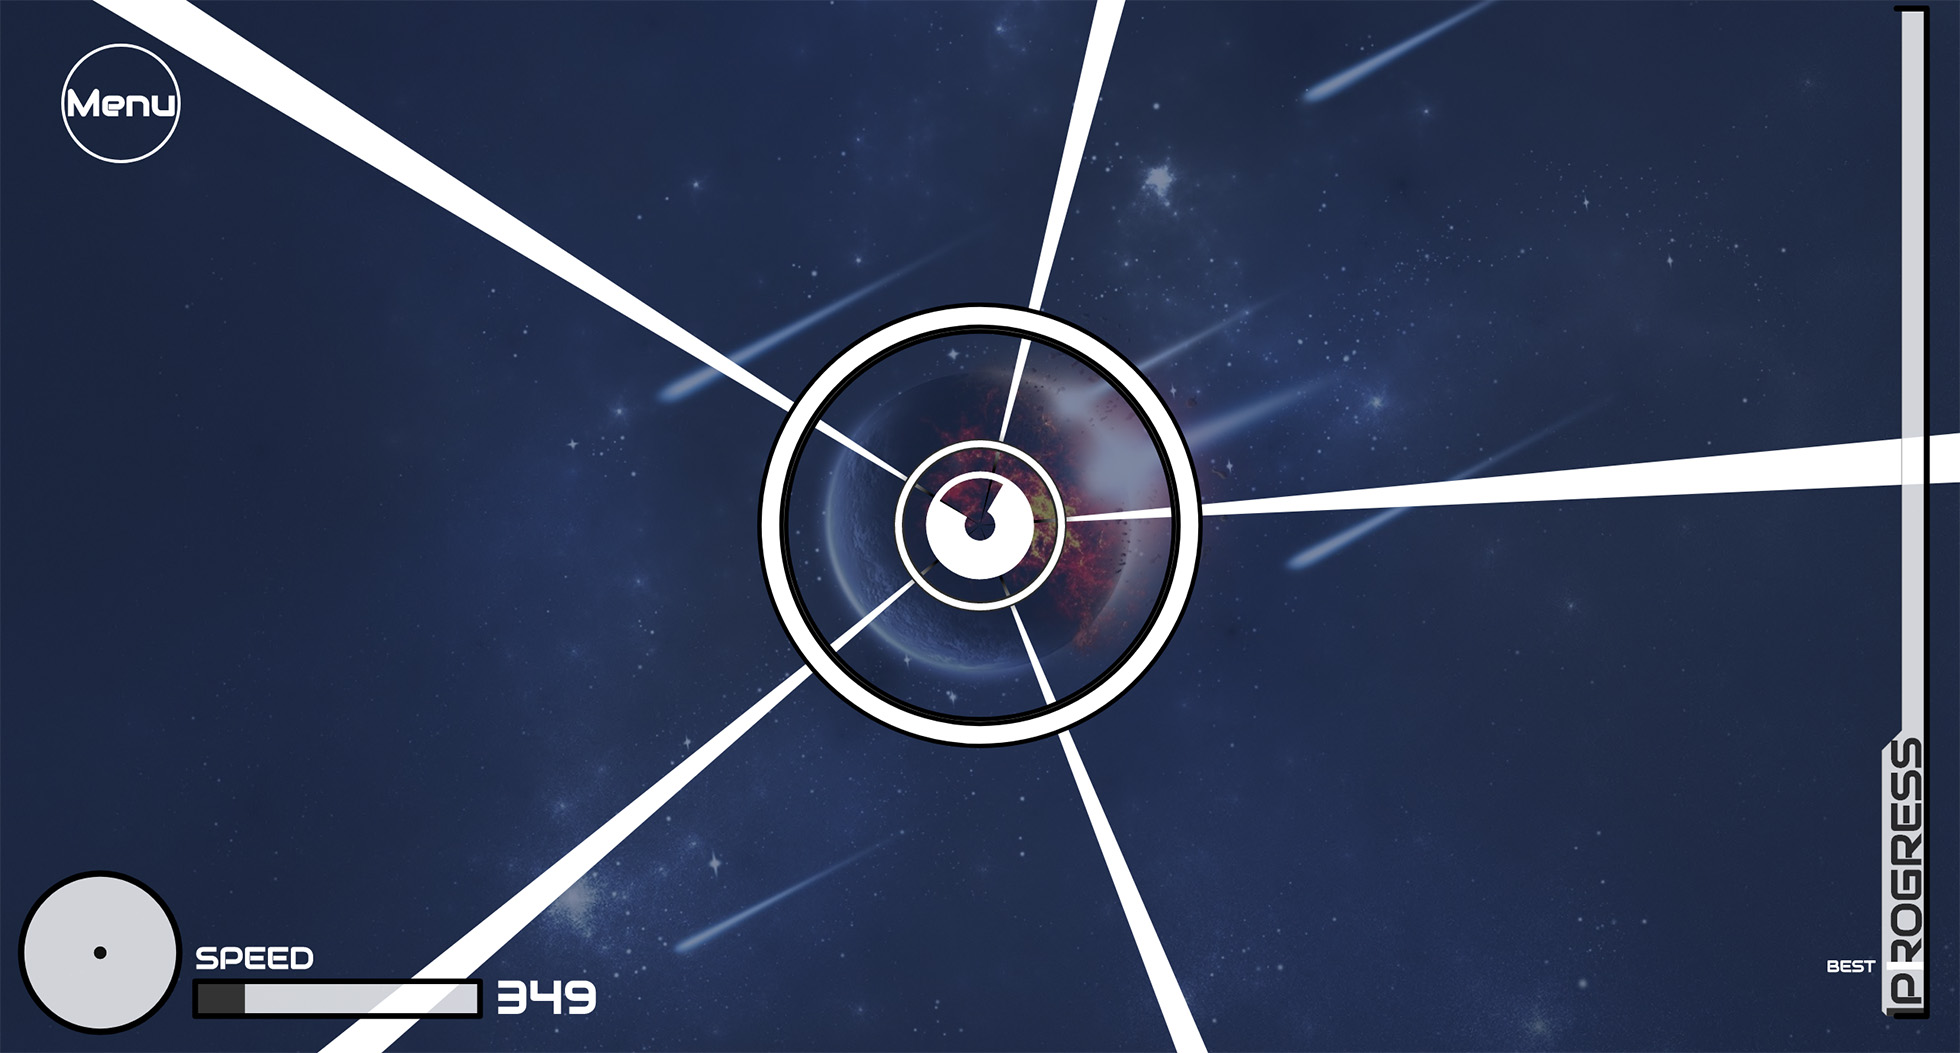
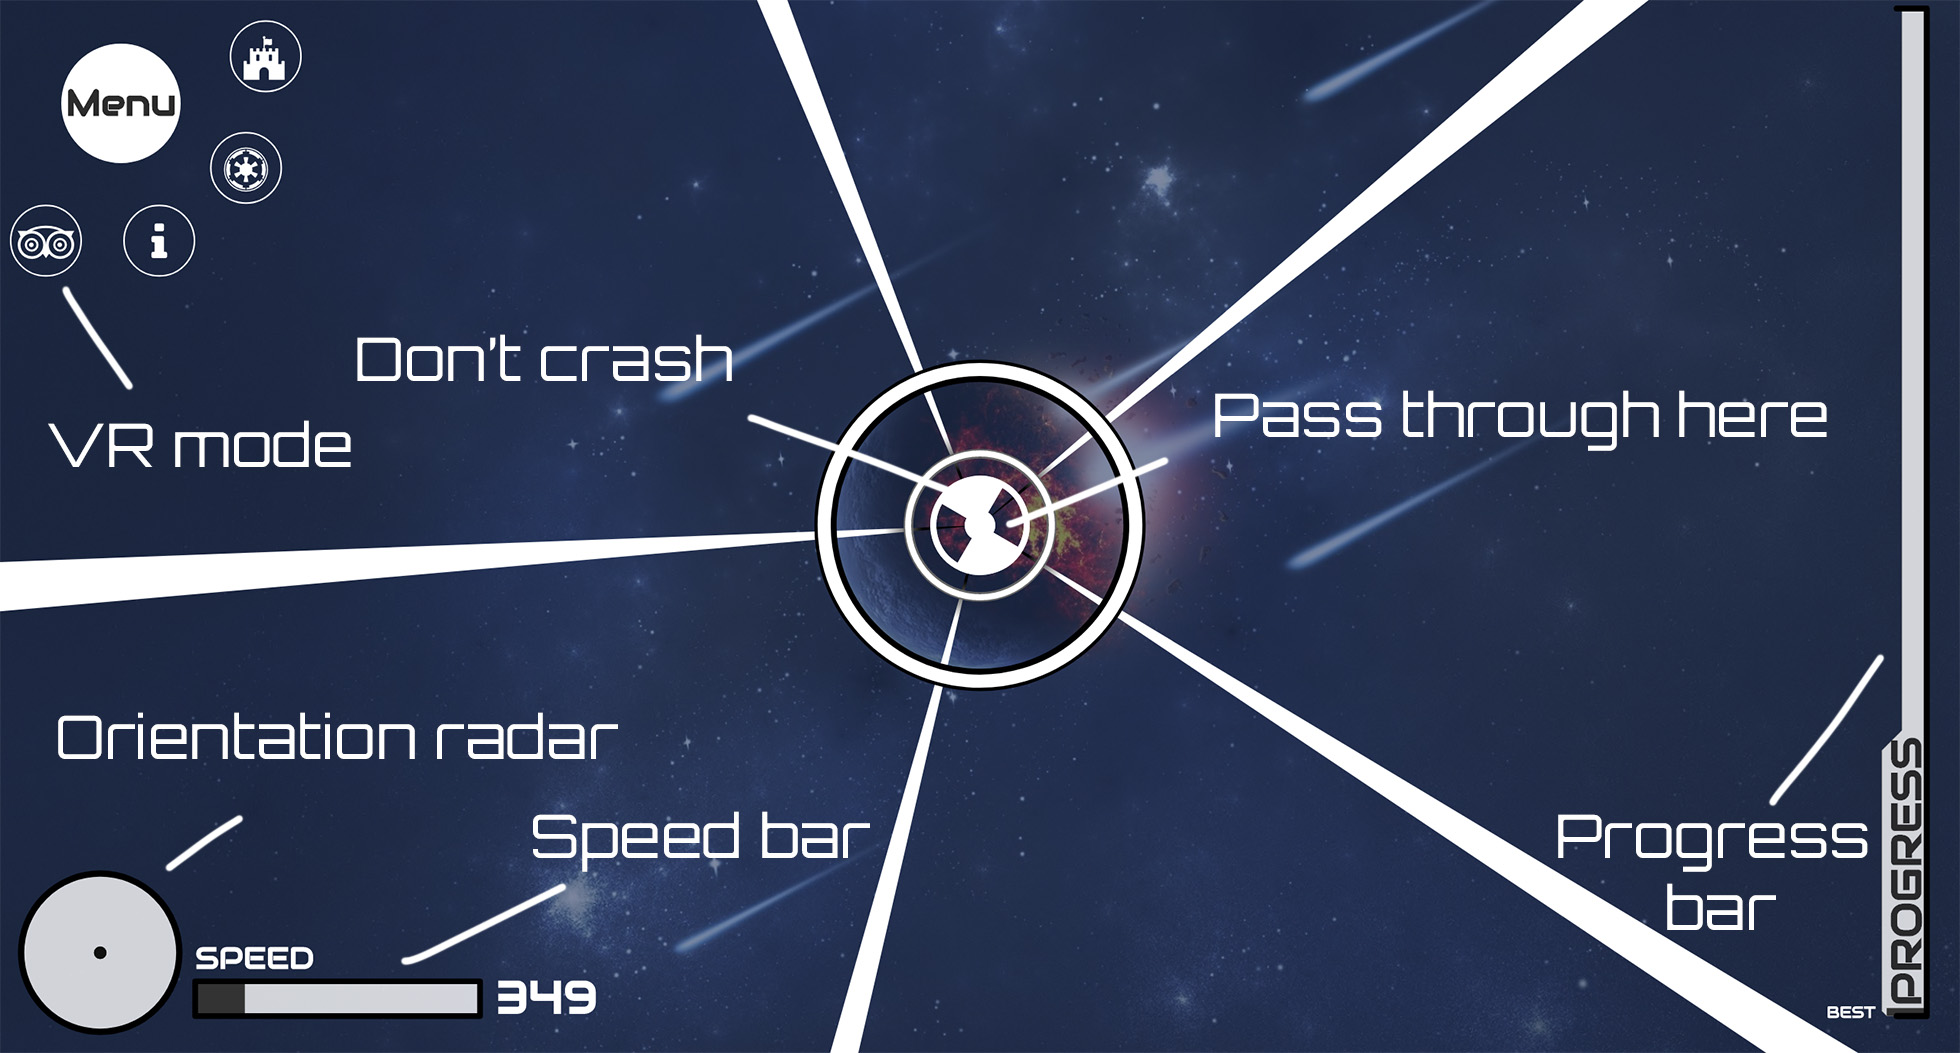
Update screenshots

diff --git a/README.md b/README.md
@@ -20,7 +20,9 @@ Fly a spaceship to eat energy coins (blue) and avoid crashing antimatter (red) (
 
 Screenshot:
 
-![screenshot-fly](screenshots/fly.jpg)
+![screenshot-fly](screenshots/fly-ui.jpg)
+
+![screenshot-fly](screenshots/fly-decibel.jpg)
 
 &nbsp;
 
@@ -32,11 +34,13 @@ Play it: [Normal](https://renovamen.github.io/Galaxy-Voyager/views/level2.html),
 
 Screenshot:
 
-![screenshot-wormhole](screenshots/wormhole.jpg)
+- Normal
 
-VR:
+  ![screenshot-wormhole](screenshots/wormhole.jpg)
 
-![screenshot-wormhole-vr](screenshots/wormhole-vr.jpg)
+- VR
+
+  ![screenshot-wormhole-vr](screenshots/wormhole-vr.jpg)
 
 &nbsp;
 
